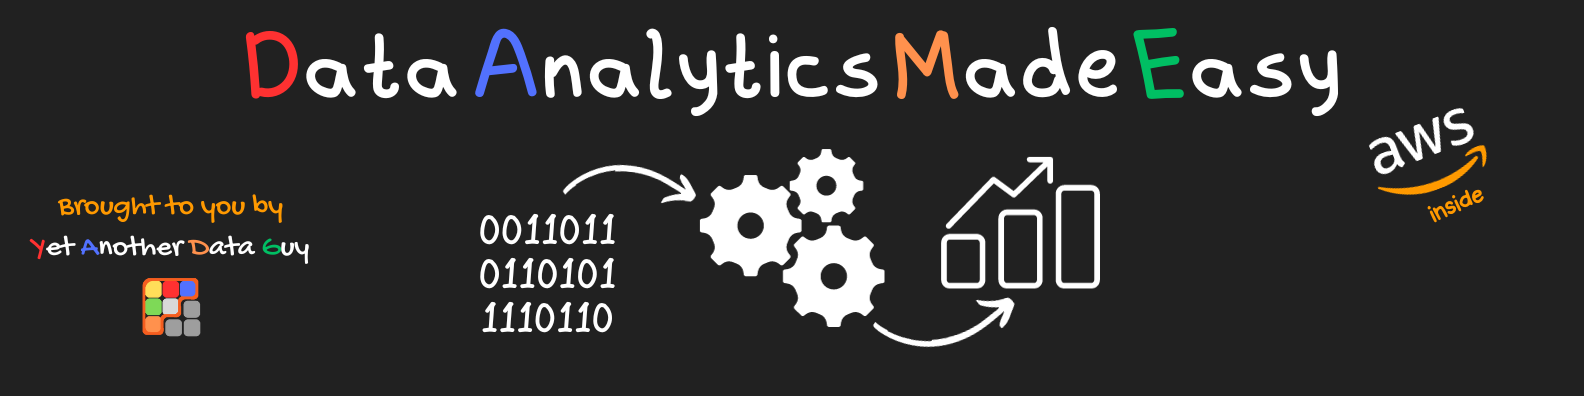
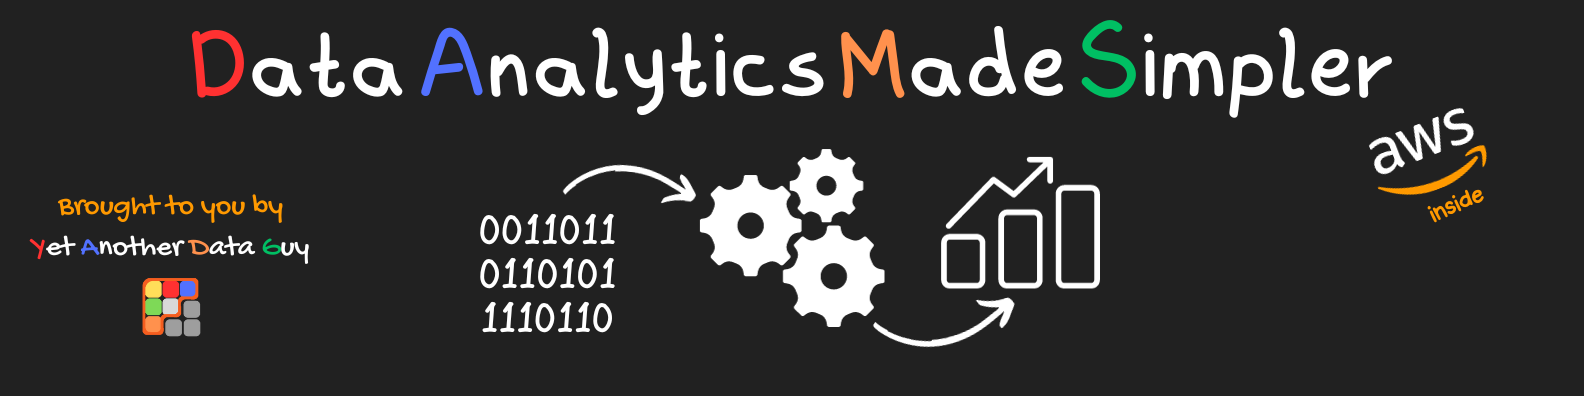
rename the series

Changed region(s): [[0.1237, 0.0303, 0.8971, 0.303]]

diff --git a/docs/index.html b/docs/index.html
@@ -3,7 +3,7 @@
 
 <head>
     <title>
-        Data Analytics Made Easy
+        Data Analytics Made Simpler
     </title>
     <meta name="viewport" content="width=device-width, initial-scale=1.0">
     <link rel="stylesheet" type="text/css" href="index.css">
@@ -12,11 +12,11 @@
     <link rel="preconnect" href="https://fonts.gstatic.com" crossorigin>
     <link href="https://fonts.googleapis.com/css2?family=M+PLUS+Rounded+1c&family=Ubuntu+Mono&display=swap"
         rel="stylesheet">
-    <meta name="description" content="Welcome to the Data Analysis Made Easy learning Series!" />
+    <meta name="description" content="Welcome to the Data Analysis Made Simpler learning Series!" />
     <meta property="og:image" content="assets/li.png">
     <meta property="og:type" content="website">
-    <meta property="og:title" content="Data Analytics Made Easy">
-    <meta property="og:description" content="Welcome to the Data Analytics Made Easy Learning Series!">
+    <meta property="og:title" content="Data Analytics Made Simpler website">
+    <meta property="og:description" content="Welcome to the Data Analytics Made Simpler Learning Series!">
 
 
 </head>
@@ -29,7 +29,7 @@
     <ul class="quick-links-container">
         <li><a href="https://www.youtube.com/@YetAnotherDataGuy" target="_blank">YouTube Channel</a></li>
         <li><a href="https://dev.to/fadygrab/series/24764" target="_blank">English Articles</a></li>
-        <li><a href="https://github.com/FadyGrAb/data-analytics-made-easy" target="_blank">Github repo</a></li>
+        <li><a href="https://github.com/FadyGrAb/data-analytics-made-simpler" target="_blank">Github repo</a></li>
     </ul>
     <hr>
     <h1>Hello! 👋</h1>
@@ -49,7 +49,7 @@
         Data
         Engineering and Data Analytics (You can know all about me from my <a
             href="https://www.linkedin.com/in/fady-abdelmassih/" target="_blank">LindedIn Profile</a>).</p>
-    <p><strong><i>"Data Analytics Made Easy"</i></strong> is the guide I wish I had when I was learning about
+    <p><strong><i>"Data Analytics Made Simpler"</i></strong> is the guide I wish I had when I was learning about
         data. You
         will have all the basic knowledge about Data Engineering and AWS to help you start your Data career.
     </p>
@@ -95,7 +95,8 @@
         href="https://www.youtube.com/@YetAnotherDataGuy" target="_blank">Yet Another Data Guy</a> YouTube
     Channel and a
     companion article in <i>English</i> at <a href="dev.to" target="_blank">dev.to</a> in a series with the
-    name "data analytics made easy". So, make sure that you <a href="https://dev.to/fadygrab" target="_blank">follow me
+    name "data analytics made Simpler". So, make sure that you <a href="https://dev.to/fadygrab" target="_blank">follow
+        me
         there</a> as
     well. Each category may have one or more mini-projects. The source code of those mini-projects will be in
     this <a href="https://github.com/FadyGrAb/data-analytics-made-easy" target="_blank">Github repo</a>.
